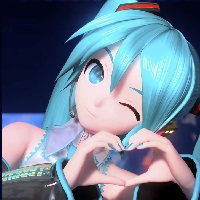
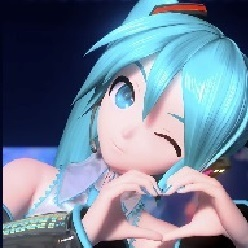
get it to actually print
even though it's small and a bit cursed

diff --git a/src/logic/phonemo.py b/src/logic/phonemo.py
@@ -95,13 +95,14 @@ class PhonemoPrinter:
         self.is_connected()
         self.initialize()
         self.alignCenter()
-        # if image.width % 8 != 0:
-        #     raise RuntimeError("Image width must be a multiple of 8.")
+
+        if image.width % 8 != 0:
+            raise RuntimeError("Image width must be a multiple of 8.")
 
         # if len(image.bits) != (image.width/8) * image.height:
         #     raise RuntimeError("Image bits length does not match width and height.")
         mode = 0
-        byteWidth = image.width # removed / 8
+        byteWidth = image.width // 8
         height = image.height
 
         imageData = bytearray([
@@ -114,7 +115,16 @@ class PhonemoPrinter:
             height & 0xff,
             (height >> 8) & 0xff])
 
-        imageData.extend(image.bits)
+        for line in range(height):
+            for byte_num in range(byteWidth):
+                byte = 0
+                for bit in range(8):
+                    pixel = image.bits[line][byte_num * 8 + bit]
+                    byte |= (pixel & 0x01) << (7 - bit)
+
+                imageData.append(byte)
+
+        # imageData.extend(image.bits)
         self.serial.write(imageData)
 
     def print_feed_lines(self, num: int) -> None:

diff --git a/src/logic/imageprocessing.py b/src/logic/imageprocessing.py
@@ -11,8 +11,16 @@ class ImageConverter:
     @staticmethod
     def _image_to_printer_format(image: Image.Image) -> PrinterImage:
         width, height = image.size
-
-        pixels = image.tobytes()
-        bits = bytearray(pixels)
+        threshold = 127
+        # pixels = image.tobytes()
+        bits = [
+        bytearray(
+            [
+                1 if image.getpixel((x, y)) > threshold else 0
+                for x in range(width)
+            ]
+        )
+        for y in range(height)
+    ]
 
         return PrinterImage(width=width, height=height, bits=bits)

diff --git a/src/logic/test1.py b/src/logic/test1.py
@@ -37,7 +37,7 @@ def print_test():
     print(sn)
     ps = printer.get_paper_state()
     print(ps)
-    image = ImageConverter.load_from_file("G:\pain in programming\phonemo-m02-python-app\src\logic\miku.jpg")
+    image = ImageConverter.load_from_file("G:\pain in programming\phonemo-m02-python-app\src\logic\miku1.jpg")
     printer.print_image(image)
 
 try:

diff --git a/src/logic/printerimage.py b/src/logic/printerimage.py
@@ -1,7 +1,7 @@
 from PIL import Image, ImageOps
 
 class PrinterImage:
-    def __init__(self, height: int, width: int, bits: bytearray):
+    def __init__(self, height: int, width: int, bits: list[bytearray]):
         self.height = height
         self.width = width
         self.bits = bits
